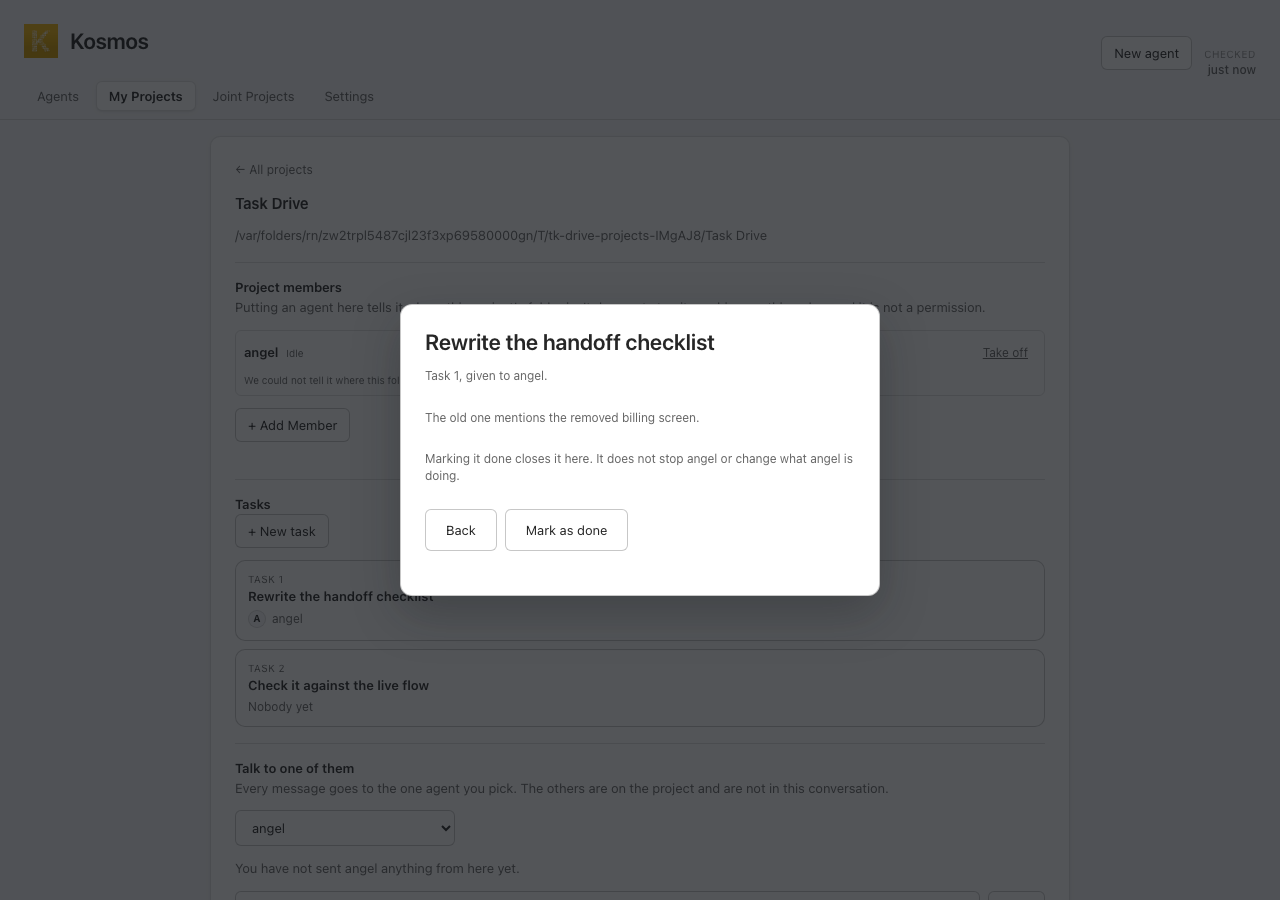
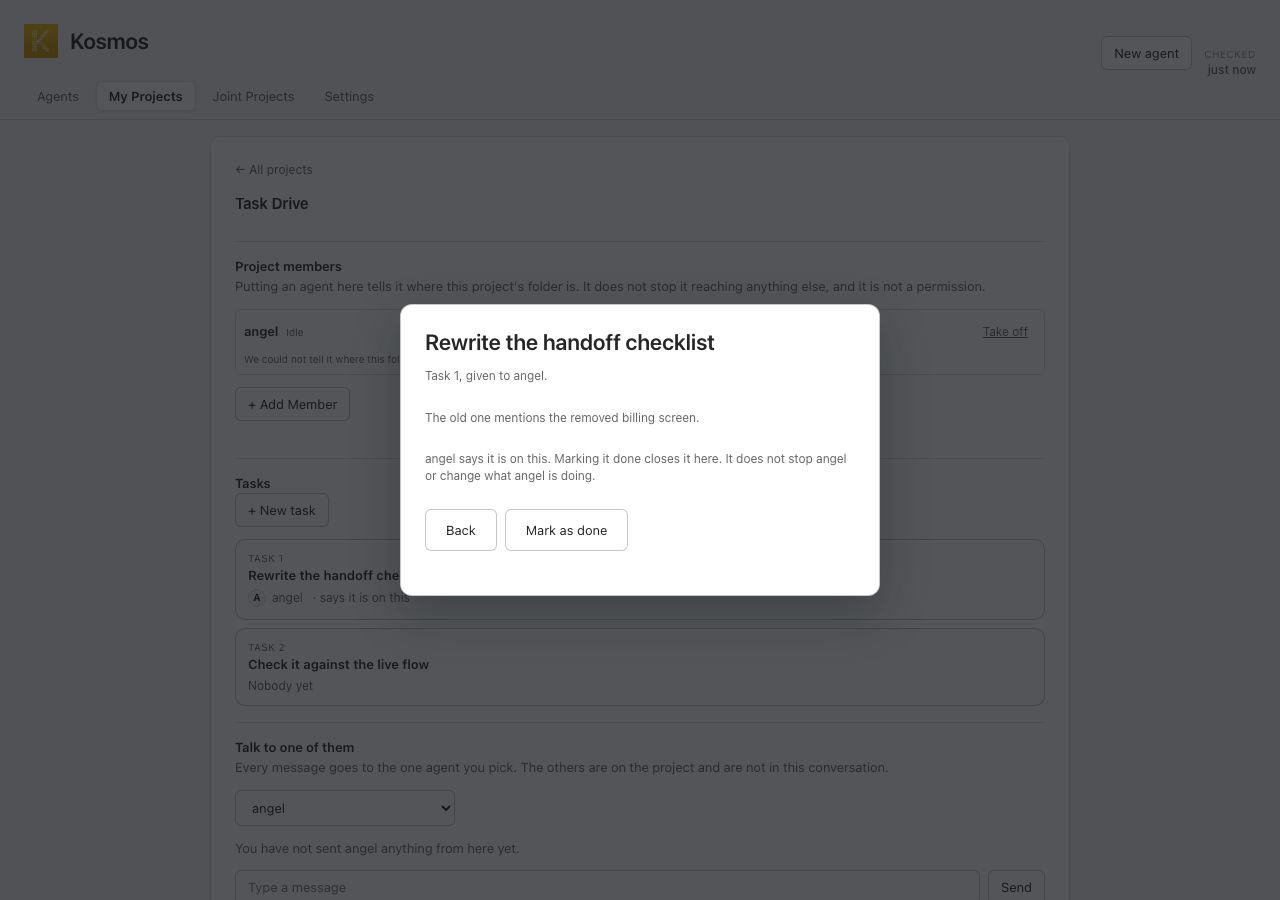
commitments-join -- one list: deterministic match, taught convention, joined render

diff --git a/engine/tasks.test.js b/engine/tasks.test.js
@@ -5,6 +5,11 @@ const fs = require('node:fs');
 const nodePath = require('node:path');
 
 process.env.AGENT_WORKFORCE_PROJECTS = fs.mkdtempSync(nodePath.join(os.tmpdir(), 'aw-tasks-'));
+// ⚠ AND THE DATA ROOT: the join tests report commitments, and the
+// commitments store defaults to the REAL app data of whoever runs the
+// suite (sandbox-every-root: the un-sandboxed third root is the one that
+// clobbers a live machine).
+process.env.AGENT_WORKFORCE_DATA = fs.mkdtempSync(nodePath.join(os.tmpdir(), 'aw-tasks-data-'));
 const projects = require('./projects');
 const tasks = require('./tasks');
 const fleet = require('../test-support/fleet');
@@ -80,4 +85,60 @@ test("the column shows a task with somebody on it that is not finished; everythi
   assert.deepEqual(col.map((t) => t.sentence), ['Assigned open']);
   // The whole list still holds all three: the door is a filter, not a loss.
   assert.equal(stored.tasks.length, 3);
+});
+
+test('claimFor: deterministic word-bounded matching, three answers never two', () => {
+  const mk = (items, state) => ({ state: state || 'holding', commitments: items.map((w) => ({ what: w })) });
+  // ⚠ task 1 never matches task 12: the boundary is the whole point of a
+  // deterministic matcher over a fuzzy one.
+  assert.deepEqual(tasks.claimFor({ number: 1, who: 'a' }, mk(['working on task 12'])), { claimed: false, because: null });
+  assert.deepEqual(tasks.claimFor({ number: 12, who: 'a' }, mk(['working on task 12'])), { claimed: true, because: null });
+  assert.deepEqual(tasks.claimFor({ number: 3, who: 'a' }, mk(['Task 3: the checklist'])), { claimed: true, because: null });
+  // Case and spacing tolerated, exactly as the block teaches it.
+  assert.equal(tasks.claimFor({ number: 7, who: 'a' }, mk(['TASK  7 rewrite'])).claimed, true);
+  // A fresh CLEAR report is a real "has not said so", not an unknown.
+  assert.deepEqual(tasks.claimFor({ number: 1, who: 'a' }, mk([], 'clear')), { claimed: false, because: null });
+  // Could-not-read is null WITH its reason, and never either boolean.
+  const un = tasks.claimFor({ number: 1, who: 'a' }, { state: 'unknown', commitments: [], because: 'stale' });
+  assert.equal(un.claimed, null);
+  assert.equal(un.because, 'stale');
+  // Nothing to compute: unassigned and closed tasks.
+  assert.equal(tasks.claimFor({ number: 1, who: null }, mk(['task 1'])), null);
+  assert.equal(tasks.claimFor({ number: 1, who: 'a', closedAt: 'x' }, mk(['task 1'])), null);
+});
+
+test('the described project carries claims joined from the real commitments store', () => {
+  const commitments = require('./commitments');
+  const p = freshProject('Join Home');
+  tasks.create(p.id, { sentence: 'Rewrite the checklist', who: 'joiner' });
+  tasks.create(p.id, { sentence: 'Second thing', who: 'joiner' });
+  tasks.create(p.id, { sentence: 'Nobody task' });
+  // The agent reports, in the taught spelling, holding task 1 only.
+  commitments.report('joiner', [{ what: 'On task 1: rewriting the checklist' }]);
+  const got = projects.get(p.id, []);
+  const [t1, t2, t3] = got.tasks;
+  assert.equal(t1.claim.claimed, true, 'the reported task did not join');
+  assert.equal(t2.claim.claimed, false, 'an unreported task shows a claim');
+  assert.equal(t3.claim, undefined, 'an unassigned task grew a claim');
+  // And an assignee with NO record reads as could-not-tell, never false.
+  tasks.create(p.id, { sentence: 'Ghost task', who: 'never-reported' });
+  const again = projects.get(p.id, []);
+  assert.equal(again.tasks[3].claim.claimed, null, 'an absent record rendered as a definite answer');
+});
+
+test('the managed block teaches the join: tasks listed in the matching spelling, for the right agent only', () => {
+  const p = freshProject('Teach Home');
+  tasks.create(p.id, { sentence: 'Mine to do', who: 'teachee' });
+  tasks.create(p.id, { sentence: 'Somebody else\'s', who: 'other' });
+  tasks.create(p.id, { sentence: 'Closed already', who: 'teachee' });
+  tasks.close(p.id, 3);
+  const stored = projects.readAll().find((x) => x.id === p.id);
+  const body = projects.blockBody([stored], 'teachee');
+  assert.match(body, /- Task 1: Mine to do/, 'the open task is not taught');
+  assert.ok(!/Somebody else/.test(body), 'another agent\'s task leaked into the block');
+  assert.ok(!/Closed already/.test(body), 'a closed task is still taught');
+  assert.match(body, /include "task <number>" in the commitment/, 'the convention line is missing');
+  // One-arg compatibility: no session name, no task lines, no trailer.
+  const bare = projects.blockBody([stored]);
+  assert.ok(!/Task 1:/.test(bare) && !/task <number>/.test(bare), 'task lines appear with no agent to scope them');
 });

diff --git a/engine/projects.js b/engine/projects.js
@@ -353,6 +353,35 @@ function profileRole(card) {
   return Object.prototype.hasOwnProperty.call(profile, 'role') ? profile.role : null;
 }
 
+/**
+ * Attach the commitments claim to each assigned open task.
+ *
+ * ⚠ ONE derivation of the join, here in the engine, never re-implemented
+ * by a screen: the matcher is engine/tasks.claimFor and the reading is
+ * engine/commitments.read, required lazily because tasks requires this
+ * module at load (the cycle resolves at call time). One read per assignee
+ * per project, memoized for the call.
+ */
+function joinTaskClaims(tasks) {
+  const withWho = tasks.filter((t) => t && t.who && !t.closedAt);
+  if (!withWho.length) return tasks;
+  const tasksMod = require('./tasks');
+  const commitments = require('./commitments');
+  const readings = new Map();
+  const readFor = (who) => {
+    if (!readings.has(who)) {
+      let r;
+      try { r = commitments.read(who); }
+      catch (err) { r = { state: 'unknown', commitments: [], because: String((err && err.message) || 'we could not read its record') }; }
+      readings.set(who, r);
+    }
+    return readings.get(who);
+  };
+  return tasks.map((t) => (t && t.who && !t.closedAt
+    ? { ...t, claim: tasksMod.claimFor(t, readFor(t.who)) }
+    : t));
+}
+
 function describe(project, roster) {
   const cards = Array.isArray(roster) ? roster : [];
   // ⚠ Seeing an agent is remembered. `everSeen` was written once, at add time,
@@ -468,7 +497,7 @@ function describe(project, roster) {
     // Same normalization rule as description/archived above: the healed
     // shape has to hold for API readers too, so a legacy project reads as
     // "no tasks yet", never as fields that simply are not there.
-    tasks: Array.isArray(project.tasks) ? project.tasks : [],
+    tasks: joinTaskClaims(Array.isArray(project.tasks) ? project.tasks : []),
     // Whether the folder lives under the Kosmos projects root: the settings
     // screen's location sentence branches on this (the pack's "In your
     // Kosmos folder." versus naming the real place), and the server is the
@@ -1196,19 +1225,39 @@ function oneLine(value) {
     .trim();
 }
 
-function blockBody(projects) {
+function blockBody(projects, sessionName) {
   // ⚠ Never reached with an empty list any more -- `tellAgent` REMOVES the
   // block instead of writing a placeholder. Kept as a guard rather than
   // deleted, because a caller that does reach it with nothing should not get
   // an empty heading.
   if (!projects.length) return 'Kosmos has not put this agent on a project yet.';
-  const lines = projects.map((p) => `- **${oneLine(p.name)}** — \`${oneLine(p.folder)}\``);
+  // ⚠ THE TEACHING HALF OF THE JOIN. The board only ever shows what an
+  // agent SAYS it is on, and the matcher accepts exactly the spelling
+  // "task <number>". These lines are where an agent learns both facts:
+  // its open tasks, in that spelling, in the file it boots from. Without
+  // this the join would be a convention nobody was told about.
+  let any = false;
+  const lines = projects.map((p) => {
+    const head = `- **${oneLine(p.name)}** — \`${oneLine(p.folder)}\``;
+    const mine = (sessionName && Array.isArray(p.tasks))
+      ? p.tasks.filter((t) => t && t.who === sessionName && !t.closedAt)
+      : [];
+    if (!mine.length) return head;
+    any = true;
+    return [head, ...mine.map((t) => `  - Task ${Number(t.number)}: ${oneLine(t.sentence)}`)].join('\n');
+  });
   return [
     '## Your projects',
     '',
     'Kosmos records which projects you are on, and this is where their folders are.',
     '',
     ...lines,
+    ...(any ? [
+      '',
+      'The indented lines are tasks written down for you. When you take one up,',
+      'include "task <number>" in the commitment you report, so the board can',
+      'show you are on it.',
+    ] : []),
   ].join('\n');
 }
 
@@ -1294,7 +1343,7 @@ function tellAgent(sessionName, projects, roster) {
     // somebody's instruction file, and "Kosmos has not put this agent on a
     // project yet" sitting in a boot file forever is residue.
     const next = projects.length
-      ? spliceBlock(current.text || '', blockBody(projects))
+      ? spliceBlock(current.text || '', blockBody(projects, sessionName))
       : removeBlock(current.text || '');
     if (next === current.text) return { state: TOLD.TOLD, because: null };
     instructions.write(sessionName, next, current.version);

diff --git a/docs/browser-checks/render-tasks.js b/docs/browser-checks/render-tasks.js
@@ -120,12 +120,29 @@ const MEMBER = 'angel';   // a session name that really exists on this machine
     const nobody = await p.locator('.tkcard').nth(1).locator('.tkcard-who').textContent();
     if (nobody.trim() !== 'Nobody yet') die('unassigned state word: ' + nobody);
 
+    // THE JOIN: the assignee reports holding "task 1" in the taught
+    // spelling; the card grows the pack's says-line and the dialog's note
+    // leads with it. Before the report, no card carries the line (claimed
+    // false and could-not-read both render nothing).
+    if ((await p.locator('.tksay').count()) !== 0) die('a says-line rendered before any report');
+    await p.evaluate(async (member) => {
+      const r = await fetch('/api/agent/' + member + '/commitments', {
+        method: 'PUT', headers: { 'content-type': 'application/json' },
+        body: JSON.stringify({ commitments: [{ what: 'On task 1: the handoff checklist rewrite' }] }),
+      });
+      if (!r.ok) throw new Error('report failed ' + r.status);
+    }, MEMBER);
+    await p.waitForSelector('.tksay', { timeout: 15000 });
+    const say = (await p.locator('.tksay').textContent()).trim();
+    if (!/says it is on this/.test(say)) die('says-line text: ' + say);
+    if ((await p.locator('.tksay').count()) !== 1) die('the says-line leaked onto unclaimed cards');
+
     // The view dialog: meta, the blessed close-note naming the agent.
     await p.locator('.tkcard').first().click();
     await p.waitForSelector('#tk-modal', { state: 'visible' });
     const note = (await p.locator('#tk-note').textContent()).replace(/\s+/g, ' ').trim();
-    if (!note.startsWith('Marking it done closes it here. It does not stop ')
-        || !note.includes(MEMBER)) die('the close-note drifted: ' + note);
+    if (!note.startsWith(MEMBER + ' says it is on this. Marking it done closes it here. It does not stop ')
+        || !note.includes(MEMBER)) die('the joined close-note drifted: ' + note);
     await p.screenshot({ path: path.join(REPO, 'docs/browser-checks/shots/tasks-view-modal.png') });
 
     // Mark as done. The reveal is still on (it persists across same-project
@@ -159,7 +176,7 @@ const MEMBER = 'angel';   // a session name that really exists on this machine
     await p.waitForSelector('#tk-modal', { state: 'hidden', timeout: 10000 });
 
     if (errs.length) die('page errors: ' + errs.join(' | '));
-    console.log('TASKS DRIVE OK: modal verbatim + gated, trap holds, column/door split, chip-is-status, blessed close-note, done and reopen round trip, 0 page errors');
+    console.log('TASKS DRIVE OK: modal verbatim + gated, trap holds, column/door split, chip-is-status, THE JOIN (report -> says-line -> joined note, nothing before the report), done and reopen round trip, 0 page errors');
   } finally {
     await b.close();
     srv.kill();

diff --git a/web/index.html b/web/index.html
@@ -781,6 +781,7 @@ svg { display: block; }
             background: var(--bg-sunken); border: 1px solid var(--separator);
             font-size: 10px; font-weight: 700; color: var(--label); }
 .tkcard.closed .tkcard-t { text-decoration: line-through; color: var(--label-2); }
+.tksay { font-style: normal; color: var(--label-2); margin-left: 4px; }
 .tk-lab { display: block; margin-top: var(--space-5); }
 .tk-inp { display: block; width: 100%; margin-top: var(--space-3); font: inherit;
           padding: .5em .65em; border: 1px solid var(--border-strong);
@@ -5569,7 +5570,16 @@ function paintProjectTasks(p) {
     const n = Number(t.number);   // server-issued, but the one unescaped field deserves the same distrust as the rest
     const who = t.who
       ? '<span class="tkcard-who"><span class="tkchip" aria-hidden="true">'
-        + esc((Array.from(tkMemberName(p, t.who))[0] || '?').toUpperCase()) + '</span>' + esc(tkMemberName(p, t.who)) + '</span>'
+        + esc((Array.from(tkMemberName(p, t.who))[0] || '?').toUpperCase()) + '</span>' + esc(tkMemberName(p, t.who))
+        /* The join, rendered ONLY as the agent's own words (the pack's
+           phrase for the commitments source: "says it is on this").
+           claimed false is NOT "not started" and renders nothing, and
+           claimed null (could-not-read) renders nothing here -- Mona
+           Lisa's chip-is-the-status ruling stands for both. */
+        + (t.claim && t.claim.claimed === true
+          ? '<em class="tksay">· says it is on this</em>'
+          : '')
+        + '</span>'
       : '<span class="tkcard-who">Nobody yet</span>';
     return '<button class="tkcard' + (t.closedAt ? ' closed' : '') + '" type="button" data-task="' + n + '">'
       + '<span class="tkcard-n">Task ' + n + (t.closedAt ? ' (done)' : '') + '</span>'
@@ -5625,7 +5635,14 @@ function openTaskModal(n) {
      closing stops the agent. Only when somebody is on it and it is open. */
   const note = document.getElementById('tk-note');
   if (who && !t.closedAt) {
-    note.textContent = 'Marking it done closes it here. It does not stop ' + who
+    /* The scene-setting sentence returns in front of the correction, per
+       the ruling made when the correction shipped without it: only when
+       the agent has SAID so (the join), and in says-vocabulary, never as
+       an observation Kosmos cannot make. */
+    const says = (t.claim && t.claim.claimed === true)
+      ? who + ' says it is on this. '
+      : '';
+    note.textContent = says + 'Marking it done closes it here. It does not stop ' + who
       + ' or change what ' + who + ' is doing.';
     note.hidden = false;
   } else {

diff --git a/engine/tasks.js b/engine/tasks.js
@@ -126,4 +126,39 @@ function columnTasks(p) {
   return (p.tasks || []).filter((t) => t.who && !t.closedAt);
 }
 
-module.exports = { create, close, reopen, byNumber, columnTasks, taskProblem, SENTENCE_MAX, DETAIL_MAX, WHO_MAX };
+
+/**
+ * The JOIN, read side: does the assignee SAY it is on this task?
+ *
+ * ⚠ Assignment is the join (the pack's rule): commitments knows what each
+ * agent says it is holding; a task knows who it was given to. The match is
+ * DETERMINISTIC, never fuzzy: a commitment counts only when its text names
+ * "task <number>" (word-bounded, so task 1 never matches task 12). Agents
+ * learn the convention from the managed block in their own instructions
+ * (projects.blockBody lists their open tasks with exactly that spelling).
+ *
+ * Three answers, never two:
+ *   { claimed: true }          a FRESH report names this task
+ *   { claimed: false }         a fresh report exists and does not name it
+ *                              (which is NOT "not started": it says only
+ *                              that the agent has not said so)
+ *   { claimed: null, because } we could not read what it reports (absent,
+ *                              stale, unreadable) -- and null must never
+ *                              render as either of the others
+ * Unassigned and closed tasks have no claim to compute (null, no because).
+ */
+function claimFor(task, reading) {
+  if (!task || !task.who || task.closedAt) return null;
+  if (!reading || reading.state === 'unknown') {
+    return {
+      claimed: null,
+      because: (reading && reading.because) || 'we could not read what it reports holding',
+    };
+  }
+  const re = new RegExp('\\btask\\s+' + Number(task.number) + '\\b', 'i');
+  const named = (reading.commitments || []).some(
+    (c) => c && typeof c.what === 'string' && re.test(c.what));
+  return { claimed: named, because: null };
+}
+
+module.exports = { create, close, reopen, byNumber, columnTasks, claimFor, taskProblem, SENTENCE_MAX, DETAIL_MAX, WHO_MAX };

diff --git a/server.js b/server.js
@@ -1859,7 +1859,16 @@ const server = http.createServer((req, res) => {
         const roster = safeRoster();
         try {
           const made = tasks.create(id, { sentence: body.sentence, detail: body.detail, who: body.who }, roster);
-          sendJson(res, 200, { task: made });
+          // The assignee's managed block now lists this task in the exact
+          // spelling the join matches on, so the agent is TOLD, not merely
+          // recorded. Non-gating, same as every tell: a task that could not
+          // be announced is still a task.
+          let told;
+          if (made.who) {
+            try { told = projects.syncAgent(made.who, roster); }
+            catch (err2) { told = { state: projects.TOLD.COULD_NOT, because: String((err2 && err2.message) || 'we could not reach that agent') }; }
+          }
+          sendJson(res, 200, { task: made, told });
         } catch (err) {
           // Three answers for three facts, same split as the member route:
           // our unreadable store (500), a project that is not there (404),
@@ -1879,7 +1888,15 @@ const server = http.createServer((req, res) => {
     if (id === null) { sendJson(res, 400, { error: 'that is not a name we can read' }); return; }
     try {
       const t = taskAct[3] === 'close' ? tasks.close(id, taskAct[2]) : tasks.reopen(id, taskAct[2]);
-      sendJson(res, 200, { task: t });
+      // Close and reopen change what the assignee's block should list, so
+      // the block follows the record. Non-gating.
+      let told;
+      if (t.who) {
+        const roster = safeRoster();
+        try { told = projects.syncAgent(t.who, roster); }
+        catch (err2) { told = { state: projects.TOLD.COULD_NOT, because: String((err2 && err2.message) || 'we could not reach that agent') }; }
+      }
+      sendJson(res, 200, { task: t, told });
     } catch (err) {
       const msg = String((err && err.message) || '');
       const code = (err && err.code === 'UNREADABLE') ? 500

diff --git a/.claude/plans/commitments-join-20260817.md b/.claude/plans/commitments-join-20260817.md
@@ -1,0 +1,54 @@
+# commitments-join: one list, told honestly (task #20, slice 1)
+
+The 0.1.2 release note promised it in public: "What an agent says it is
+holding and what you wrote down are still two lists, and joining them is
+next." This branch is the join, built to the pack's rule (assignment is
+the join) and Mona Lisa's honesty rulings, under Josh's ship-iterate bar.
+
+## The mechanism, one derivation end to end
+
+- MATCH (engine/tasks.claimFor): deterministic, never fuzzy. A
+  commitment joins a task only when its text names "task <number>",
+  word-bounded (task 1 never matches task 12). Three answers, never
+  two: claimed true (a fresh report names it), claimed false (a fresh
+  report does not, which is NOT "not started"), claimed null with the
+  reason (absent/stale/unreadable record, never rendered as either).
+- TEACH (projects.blockBody): the managed block in each agent's own
+  instruction file now lists its open tasks in exactly the matching
+  spelling ("- Task 3: <sentence>") plus one convention line. The join
+  is not a convention nobody was told about; the teaching surface is
+  the file agents boot from. One-arg blockBody calls stay compatible
+  (no session name, no task lines).
+- FOLLOW (task routes): create-with-who, close, and reopen re-tell the
+  assignee (syncAgent, non-gating, verdict carried in the response), so
+  the block follows the record.
+- JOIN AT READ (projects.describe): assigned open tasks carry `claim`,
+  computed engine-side from commitments.read (lazy requires resolve the
+  tasks<->projects load cycle; one read per assignee per project,
+  memoized per call). No screen re-derives the rule.
+- RENDER: the card gains the pack's own phrase, "says it is on this",
+  ONLY when claimed is true; false and null render nothing (the
+  chip-is-the-status ruling stands). The dialog's close-note regains
+  its scene-setting sentence exactly as ruled when the correction
+  shipped without it: "<Name> says it is on this." in says-vocabulary,
+  never as an observation Kosmos cannot make.
+
+## Deliberately not in this slice
+
+The pack's richer card states ("Waiting on you", "2 of 3 assigned"),
+multi-part tasks, the task detail page with its activity thread, and
+any agent-detail surface for unmatched claims ("an agent reporting
+something matching no task belongs on the AGENT, not here"). They
+iterate against Josh's use, per the night's directive.
+
+## Verification
+
+node --test 797/797 (claimFor's boundary/three-answer contract; the
+described project joining from the REAL commitments store, incl. the
+absent-record-is-null case; the teaching block scoped to the right
+agent with closed tasks excluded and the one-arg compatibility; the
+tasks test file gained the DATA sandbox its new commitments writes
+required, per sandbox-every-root). Committed drive extended with the
+full arc measured live: no says-line before any report, the assignee
+reports "task 1" through the real PUT route, the card grows exactly one
+says-line, the joined note leads with the agent's own claim.
